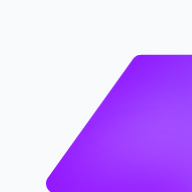
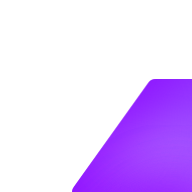
Polish PWA install guidance

Changed region(s): [[0.2188, 0.2812, 1.0, 1.0]]

diff --git a/src/components/shared/InstallPrompt.jsx b/src/components/shared/InstallPrompt.jsx
@@ -3,6 +3,7 @@ import { Download, Share, X } from 'lucide-react'
 import './InstallPrompt.css'
 
 const DISMISSED_KEY = 'd1-install-prompt-dismissed'
+const DO_NOT_SHOW_KEY = 'd1-install-prompt-do-not-show'
 
 function isStandalone() {
   return window.matchMedia?.('(display-mode: standalone)').matches
@@ -21,6 +22,13 @@ export default function InstallPrompt() {
   const [dismissed, setDismissed] = useState(() => {
     try {
       return window.sessionStorage.getItem(DISMISSED_KEY) === 'true'
+    } catch {
+      return false
+    }
+  })
+  const [doNotShowAgain, setDoNotShowAgain] = useState(() => {
+    try {
+      return window.localStorage.getItem(DO_NOT_SHOW_KEY) === 'true'
     } catch {
       return false
     }
@@ -55,6 +63,15 @@ export default function InstallPrompt() {
     }
   }, [])
 
+  useEffect(() => {
+    if (!showIosInstructions) return undefined
+    const handleKeyDown = (event) => {
+      if (event.key === 'Escape') setShowIosInstructions(false)
+    }
+    window.addEventListener('keydown', handleKeyDown)
+    return () => window.removeEventListener('keydown', handleKeyDown)
+  }, [showIosInstructions])
+
   const isArabic = language === 'ar'
   const canInstall = Boolean(deferredPrompt) || ios
   const content = useMemo(() => isArabic
@@ -64,8 +81,14 @@ export default function InstallPrompt() {
       install: 'تثبيت',
       later: 'لاحقاً',
       iosTitle: 'تثبيت ديوان على iPhone',
-      iosBody: 'اضغط مشاركة في Safari، ثم اختر «إضافة إلى الشاشة الرئيسية».',
+      iosSteps: [
+        'اضغط على زر المشاركة (Share icon ⎋) في شريط Safari بالأسفل.',
+        'مرر القائمة واختر "إضافة إلى الشاشة الرئيسية" (Add to Home Screen).',
+        'اضغط على "إضافة" (Add) في الزاوية العلوية.',
+      ],
       understood: 'فهمت',
+      doNotShow: 'لا تظهر هذه الرسالة مرة أخرى',
+      close: 'إغلاق',
     }
     : {
       title: 'Install D1',
@@ -73,11 +96,17 @@ export default function InstallPrompt() {
       install: 'Install',
       later: 'Not now',
       iosTitle: 'Install D1 on iPhone',
-      iosBody: 'Tap Share in Safari, then choose “Add to Home Screen”.',
+      iosSteps: [
+        'Tap the Share button in the Safari toolbar at the bottom.',
+        'Scroll the menu and choose “Add to Home Screen”.',
+        'Tap “Add” in the upper corner.',
+      ],
       understood: 'Got it',
+      doNotShow: 'Do not show this again',
+      close: 'Close',
     }, [isArabic])
 
-  if (installed || dismissed || !canInstall) return null
+  if (installed || dismissed || doNotShowAgain || !canInstall) return null
 
   const dismiss = () => {
     setDismissed(true)
@@ -86,6 +115,21 @@ export default function InstallPrompt() {
     } catch {
       // Session storage may be unavailable in private browsing.
     }
+  }
+
+  const toggleDoNotShowAgain = (event) => {
+    const checked = event.target.checked
+    setDoNotShowAgain(checked)
+    try {
+      if (checked) {
+        window.localStorage.setItem(DO_NOT_SHOW_KEY, 'true')
+      } else {
+        window.localStorage.removeItem(DO_NOT_SHOW_KEY)
+      }
+    } catch {
+      // Local storage may be unavailable in private browsing.
+    }
+    if (checked) dismiss()
   }
 
   const install = async () => {
@@ -119,6 +163,10 @@ export default function InstallPrompt() {
             <X size={18} aria-hidden="true" />
           </button>
         </div>
+        <label className="install-prompt__preference">
+          <input type="checkbox" checked={doNotShowAgain} onChange={toggleDoNotShowAgain} />
+          <span>{content.doNotShow}</span>
+        </label>
       </aside>
 
       {showIosInstructions && (
@@ -131,12 +179,14 @@ export default function InstallPrompt() {
             dir="rtl"
             onClick={(event) => event.stopPropagation()}
           >
-            <button type="button" className="install-prompt__close" onClick={() => setShowIosInstructions(false)} aria-label={content.later}>
+            <button type="button" className="install-prompt__close" onClick={() => setShowIosInstructions(false)} aria-label={content.close}>
               <X size={18} aria-hidden="true" />
             </button>
             <Share size={28} className="install-modal__icon" aria-hidden="true" />
             <h2 id="install-modal-title">{content.iosTitle}</h2>
-            <p>{content.iosBody}</p>
+            <ol className="install-modal__steps">
+              {content.iosSteps.map((step) => <li key={step}>{step}</li>)}
+            </ol>
             <button type="button" className="install-prompt__primary" onClick={() => { setShowIosInstructions(false); dismiss() }}>
               {content.understood}
             </button>

diff --git a/src/components/shared/InstallPrompt.css b/src/components/shared/InstallPrompt.css
@@ -47,6 +47,16 @@
   color: #cbd5e1;
   background: transparent;
 }
+.install-prompt__preference {
+  display: flex;
+  align-items: center;
+  gap: 0.4rem;
+  width: 100%;
+  color: #cbd5e1;
+  font-size: 0.7rem;
+  cursor: pointer;
+}
+.install-prompt__preference input { accent-color: #2dd4bf; }
 .install-prompt__dismiss { padding: 0.35rem; font-size: 0.72rem; }
 .install-prompt__close { display: inline-flex; padding: 0.25rem; }
 .install-prompt__dismiss:hover, .install-prompt__close:hover { color: white; }
@@ -73,12 +83,21 @@
 .install-modal .install-prompt__close { position: absolute; top: 0.7rem; inset-inline-end: 0.7rem; color: #64748b; }
 .install-modal__icon { color: #00a89b; margin: 0 auto 0.75rem; }
 .install-modal h2 { margin: 0 0 0.5rem; font-size: 1.1rem; }
-.install-modal p { margin: 0 0 1.25rem; color: #475569; font-size: 0.88rem; line-height: 1.7; }
+.install-modal__steps {
+  margin: 0 0 1.25rem;
+  padding-inline-start: 1.5rem;
+  color: #475569;
+  font-size: 0.88rem;
+  line-height: 1.7;
+  text-align: start;
+}
+.install-modal__steps li { padding-inline-start: 0.25rem; }
 
 @media (min-width: 640px) {
   .install-prompt { bottom: 1rem; }
 }
 @media (max-width: 420px) {
+  .install-prompt { flex-wrap: wrap; }
   .install-prompt { align-items: flex-start; }
   .install-prompt__actions { flex-wrap: wrap; justify-content: flex-end; }
   .install-prompt__dismiss { order: 3; width: 100%; text-align: end; }
